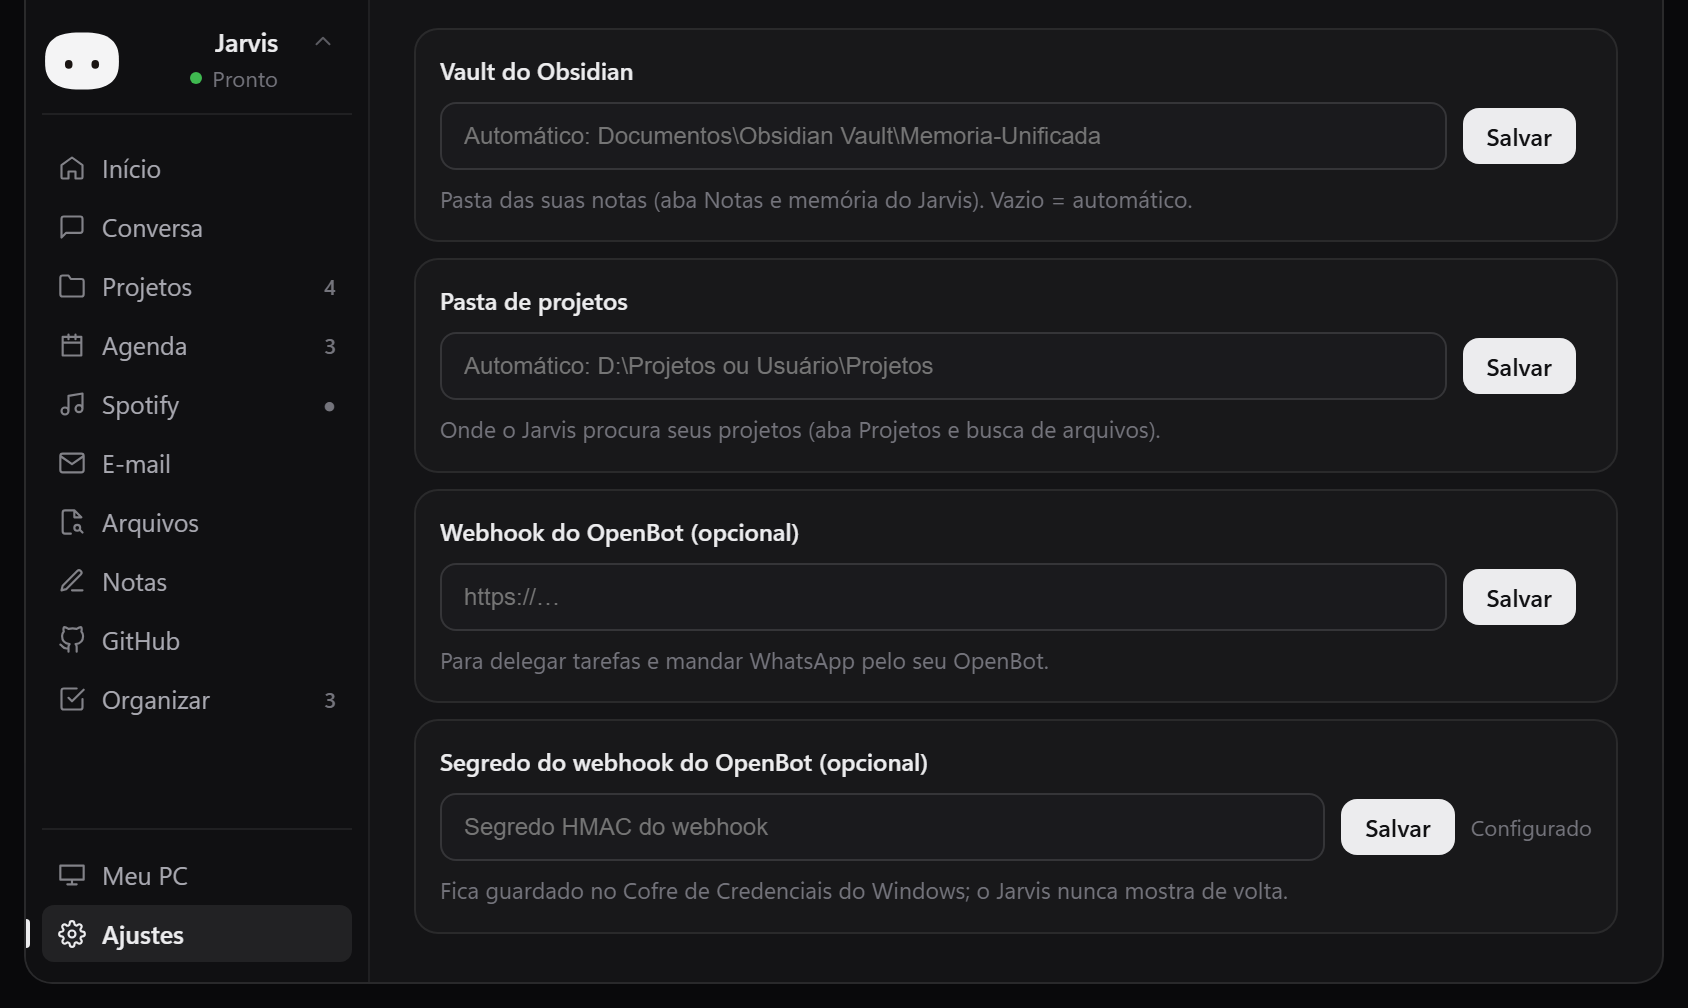
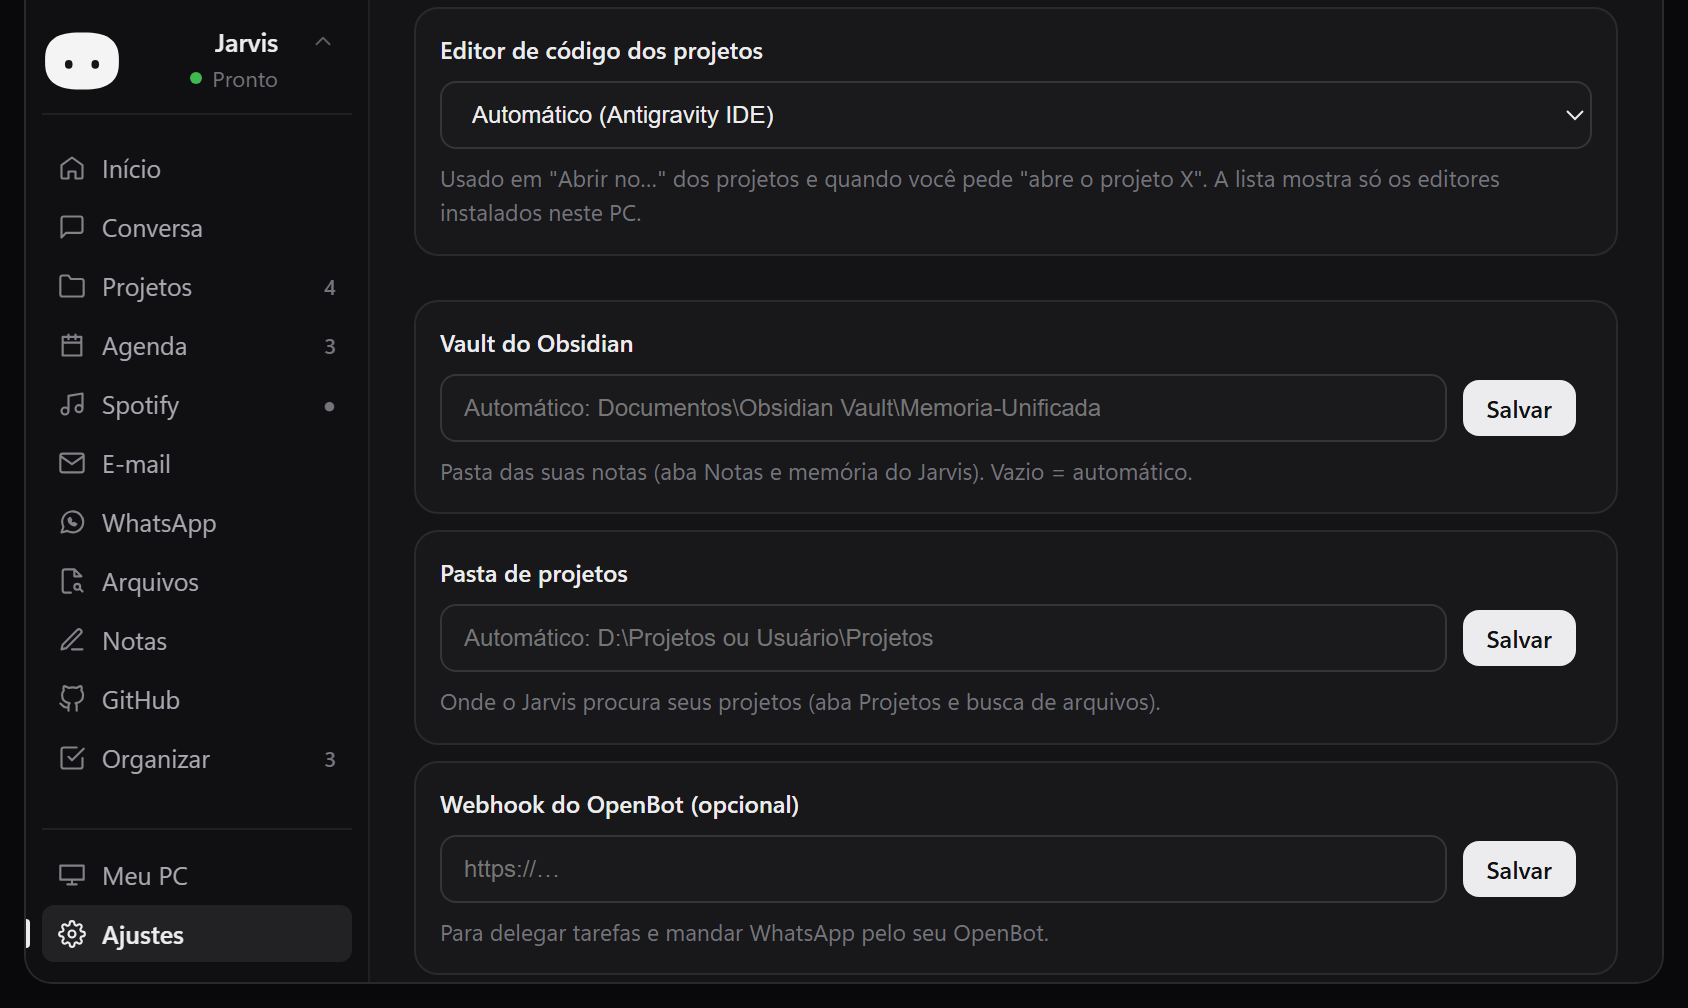
Editor de código dos projetos escolhido em Ajustes
- Detecta os editores instalados (Antigravity IDE, Antigravity, Cursor,
  Windsurf, VS Code/Insiders, Zed, Sublime Text, Visual Studio, JetBrains)
- Ajustes → Pastas e integrações → "Editor de código dos projetos":
  automático (primeiro encontrado) ou um dos instalados
- "Abrir no…", atalho de apps e "abre o projeto X" usam o escolhido
- README, notas da 0.1.5 e imagem de Pastas e integrações atualizados

diff --git a/src/jarvis/notch_app.ts b/src/jarvis/notch_app.ts
@@ -373,7 +373,7 @@ export async function startJarvisNotch(root: HTMLElement) {
   let queuedVoice: { text: string; screen: boolean } | null = null;
 
   /** The code editor projects open in (Antigravity when installed). */
-  let editorName = "Antigravity IDE";
+  let editorName = "editor";
   void Bridge.codeEditorName().then((n) => {
     if (n && n !== editorName) {
       editorName = n;
@@ -2373,6 +2373,47 @@ export async function startJarvisNotch(root: HTMLElement) {
     );
   }
 
+  /** The code editor projects open in, among the ones found on this PC. */
+  let editorsFound: { name: string; path: string }[] | null = null;
+  function renderEditorPicker(): HTMLElement {
+    const select = h("select", { class: "input", style: "width:100%;height:34px;color-scheme:dark" }) as HTMLSelectElement;
+    const status = h("span", { class: "tt-row-meta" });
+    const fill = (list: { name: string; path: string }[]) => {
+      select.replaceChildren();
+      const auto = list[0]?.name;
+      select.append(h("option", { value: "", text: auto ? `Automático (${auto})` : "Nenhum editor encontrado" }) as HTMLOptionElement);
+      for (const e of list) select.append(h("option", { value: e.path, text: e.name, title: e.path }) as HTMLOptionElement);
+      const saved = State.settings.jarvisCodeEditor ?? "";
+      // A saved editor that was uninstalled falls back to automatic.
+      select.value = list.some((e) => e.path.toLowerCase() === saved.toLowerCase()) ? list.find((e) => e.path.toLowerCase() === saved.toLowerCase())!.path : "";
+    };
+    if (editorsFound) fill(editorsFound);
+    else {
+      select.append(h("option", { value: "", text: "Procurando editores instalados…" }) as HTMLOptionElement);
+      void Bridge.listCodeEditors().then((list) => {
+        editorsFound = list ?? [];
+        fill(editorsFound);
+      });
+    }
+    select.addEventListener("change", async () => {
+      await saveSettings({ ...State.settings, jarvisCodeEditor: select.value });
+      editorName = (await Bridge.codeEditorName()) || editorName;
+      status.textContent = `Projetos abrem no ${editorName}`;
+    });
+    return h(
+      "div",
+      { class: "tt-card", style: "margin-bottom:8px" },
+      h("div", { class: "tt-card-title", text: "Editor de código dos projetos" }),
+      select,
+      h(
+        "div",
+        { class: "tt-volume", style: "margin-top:6px" },
+        h("span", { class: "tt-hint", style: "margin:0", text: "Usado em \"Abrir no…\" dos projetos e quando você pede \"abre o projeto X\". A lista mostra só os editores instalados neste PC." }),
+        status,
+      ),
+    );
+  }
+
   /** Obsidian, projects folder and the OpenBot webhook (empty = automatic). */
   function renderFolderSettings(): HTMLElement {
     type Field = "jarvisObsidianVault" | "jarvisProjectsDir" | "jarvisOpenbotWebhookUrl";
@@ -3193,6 +3234,7 @@ export async function startJarvisNotch(root: HTMLElement) {
       sectionHead("Microfone"),
       renderMicSettings(),
       sectionHead("Pastas e integrações"),
+      renderEditorPicker(),
       renderFolderSettings(),
       sectionHead("Sobre"),
       renderAboutUpdates(),

diff --git a/dev/notch-preview.ts b/dev/notch-preview.ts
@@ -99,6 +99,13 @@ const answers: Record<string, (args: any) => unknown> = {
     calEvents = calEvents.filter((e) => e.key !== key);
     return null;
   },
+  // Code editors found on the PC.
+  list_code_editors: () => [
+    { name: "Antigravity IDE", path: "C:\\Users\\voce\\AppData\\Local\\Programs\\Antigravity IDE\\Antigravity IDE.exe" },
+    { name: "VS Code", path: "C:\\Users\\voce\\AppData\\Local\\Programs\\Microsoft VS Code\\Code.exe" },
+    { name: "Cursor", path: "C:\\Users\\voce\\AppData\\Local\\Programs\\cursor\\Cursor.exe" },
+  ],
+  code_editor_name: () => "Antigravity IDE",
   // WhatsApp (fictional chats).
   whatsapp_state: () => ({ state: "ready", qr: null }),
   whatsapp_chats: () => [

diff --git a/src/core/state.ts b/src/core/state.ts
@@ -194,6 +194,8 @@ export interface Settings {
   jarvisMicName?: string;
   /** Words the transcription should know (names, games, apps), comma separated. */
   jarvisVoiceVocab?: string;
+  /** The program projects open in ("" = the first editor found). */
+  jarvisCodeEditor?: string;
   /** "local": the enrolled "Jarvis" spotted on the PC; "cloud": transcribed sentences. */
   jarvisWakeEngine?: "local" | "cloud";
   /** Local wake word: 0.35 (easier) – 0.7 (stricter). */
@@ -250,6 +252,7 @@ export const DEFAULT_SETTINGS: Settings = {
   jarvisMicSensitivity: "alta",
   jarvisMicName: "",
   jarvisVoiceVocab: "",
+  jarvisCodeEditor: "",
   jarvisWakeEngine: "local",
   jarvisWakeThreshold: 0.45,
 };

diff --git a/src/core/bridge.ts b/src/core/bridge.ts
@@ -72,6 +72,7 @@ export const Bridge = {
   /** A project in the code editor (Antigravity, else VS Code). */
   openProject: (path: string) => callOrThrow<string>("open_project", { path }),
   codeEditorName: () => call<string>("code_editor_name"),
+  listCodeEditors: () => call<{ name: string; path: string }[]>("list_code_editors"),
 
   /**
    * "Open terminal": the window the session runs in when Rust found it

diff --git a/src-tauri/src/jarvis_pc.rs b/src-tauri/src/jarvis_pc.rs
@@ -96,29 +96,95 @@ pub fn pick_shortcut(list: &[(String, std::path::PathBuf)], q: &str) -> Option<s
         .map(|(_, p)| p.clone())
 }
 
-/// The code editor projects open in: Antigravity IDE (the user's choice),
-/// then the newer Antigravity, else VS Code. Returns the program and its name.
-pub fn code_editor() -> Option<(std::path::PathBuf, &'static str)> {
-    let local = std::env::var_os("LOCALAPPDATA").map(std::path::PathBuf::from).unwrap_or_default();
-    let ide = local.join(r"Programs\Antigravity IDE\Antigravity IDE.exe");
-    if ide.is_file() {
-        return Some((ide, "Antigravity IDE"));
+/// A code editor found on the PC.
+#[derive(Debug, Clone, serde::Serialize)]
+#[serde(rename_all = "camelCase")]
+pub struct EditorInfo {
+    pub name: String,
+    /// The program; also what Ajustes saves as the choice.
+    pub path: String,
+}
+
+/// The code editors installed on this PC, in the order the automatic choice
+/// prefers them. Looks in the usual install folders and on PATH.
+pub fn installed_editors() -> Vec<EditorInfo> {
+    use std::path::PathBuf;
+    let env = |k: &str| std::env::var_os(k).map(PathBuf::from);
+    let local = env("LOCALAPPDATA").unwrap_or_default();
+    let pf = env("ProgramFiles").unwrap_or_else(|| PathBuf::from(r"C:\Program Files"));
+    let pf86 = env("ProgramFiles(x86)").unwrap_or_else(|| PathBuf::from(r"C:\Program Files (x86)"));
+
+    // (name, install paths, command on PATH)
+    let known: Vec<(&str, Vec<PathBuf>, &str)> = vec![
+        ("Antigravity IDE", vec![local.join(r"Programs\Antigravity IDE\Antigravity IDE.exe")], "antigravity-ide"),
+        ("Antigravity", vec![local.join(r"Programs\Antigravity\Antigravity.exe")], "antigravity"),
+        ("Cursor", vec![local.join(r"Programs\cursor\Cursor.exe"), pf.join(r"Cursor\Cursor.exe")], "cursor"),
+        ("Windsurf", vec![local.join(r"Programs\Windsurf\Windsurf.exe"), pf.join(r"Windsurf\Windsurf.exe")], "windsurf"),
+        ("VS Code", vec![local.join(r"Programs\Microsoft VS Code\Code.exe"), pf.join(r"Microsoft VS Code\Code.exe")], "code"),
+        (
+            "VS Code Insiders",
+            vec![local.join(r"Programs\Microsoft VS Code Insiders\Code - Insiders.exe"), pf.join(r"Microsoft VS Code Insiders\Code - Insiders.exe")],
+            "code-insiders",
+        ),
+        ("Zed", vec![local.join(r"Programs\Zed\Zed.exe"), pf.join(r"Zed\Zed.exe")], "zed"),
+        ("Sublime Text", vec![pf.join(r"Sublime Text\sublime_text.exe"), pf.join(r"Sublime Text 3\sublime_text.exe")], "subl"),
+    ];
+    let mut out: Vec<EditorInfo> = Vec::new();
+    let push = |name: String, exe: PathBuf, out: &mut Vec<EditorInfo>| {
+        let path = exe.to_string_lossy().to_string();
+        if !out.iter().any(|e| e.path.eq_ignore_ascii_case(&path) || e.name == name) {
+            out.push(EditorInfo { name, path });
+        }
+    };
+    for (name, paths, cmd) in known {
+        if let Some(exe) = paths.into_iter().find(|p| p.is_file()).or_else(|| crate::platform::find_on_path(cmd)) {
+            push(name.to_string(), exe, &mut out);
+        }
     }
-    if let Some(exe) = crate::platform::find_on_path("antigravity-ide") {
-        return Some((exe, "Antigravity IDE"));
+
+    // Visual Studio: <Program Files>\Microsoft Visual Studio\<versão>\<edição>\Common7\IDE\devenv.exe
+    for root in [pf.join("Microsoft Visual Studio"), pf86.join("Microsoft Visual Studio")] {
+        for version in std::fs::read_dir(&root).into_iter().flatten().flatten() {
+            for edition in std::fs::read_dir(version.path()).into_iter().flatten().flatten() {
+                let exe = edition.path().join(r"Common7\IDE\devenv.exe");
+                if exe.is_file() {
+                    let name = format!("Visual Studio {} {}", version.file_name().to_string_lossy(), edition.file_name().to_string_lossy());
+                    push(name, exe, &mut out);
+                }
+            }
+        }
     }
-    let newer = local.join(r"Programs\Antigravity\Antigravity.exe");
-    if newer.is_file() {
-        return Some((newer, "Antigravity"));
+
+    // JetBrains (IntelliJ, WebStorm, PyCharm, Rider…): <dir>\bin\<ide>64.exe,
+    // installed directly or by the Toolbox.
+    let mut jet_dirs: Vec<PathBuf> = std::fs::read_dir(pf.join("JetBrains")).into_iter().flatten().flatten().map(|d| d.path()).collect();
+    for app in std::fs::read_dir(local.join(r"Programs")).into_iter().flatten().flatten() {
+        if app.path().join("bin").is_dir() && app.path().join("product-info.json").is_file() {
+            jet_dirs.push(app.path());
+        }
     }
-    if let Some(exe) = crate::platform::find_on_path("antigravity") {
-        return Some((exe, "Antigravity"));
+    for dir in jet_dirs {
+        let Some(exe) = std::fs::read_dir(dir.join("bin")).into_iter().flatten().flatten().map(|f| f.path()).find(|p| {
+            let n = p.file_name().map(|n| n.to_string_lossy().to_lowercase()).unwrap_or_default();
+            n.ends_with("64.exe") && !n.starts_with("fsnotifier") && !n.starts_with("elevator") && !n.starts_with("restarter")
+        }) else {
+            continue;
+        };
+        push(dir.file_name().map(|n| n.to_string_lossy().to_string()).unwrap_or_else(|| "JetBrains".into()), exe, &mut out);
     }
-    let vscode = local.join(r"Programs\Microsoft VS Code\Code.exe");
-    if vscode.is_file() {
-        return Some((vscode, "VS Code"));
-    }
-    crate::platform::find_on_path("code").map(|exe| (exe, "VS Code"))
+    out
+}
+
+/// The editor projects open in: the one chosen in Ajustes (if it is still
+/// installed), else the first one found. Returns the program and its name.
+pub fn code_editor() -> Option<(std::path::PathBuf, String)> {
+    let chosen = crate::settings::load().jarvis_code_editor;
+    let all = installed_editors();
+    let pick = all
+        .iter()
+        .find(|e| !chosen.is_empty() && e.path.eq_ignore_ascii_case(&chosen))
+        .or_else(|| all.first())?;
+    Some((std::path::PathBuf::from(&pick.path), pick.name.clone()))
 }
 
 /// Opens a project folder in the code editor. The path goes as its own
@@ -128,7 +194,7 @@ pub fn open_in_editor(path: &str) -> Result<String, String> {
     if !(dir.is_absolute() && dir.exists()) {
         return Err(format!("Pasta não encontrada: {path}"));
     }
-    let (exe, name) = code_editor().ok_or("Não encontrei o Antigravity nem o VS Code instalados.")?;
+    let (exe, name) = code_editor().ok_or("Não encontrei nenhum editor de código instalado (Antigravity, VS Code, Cursor…).")?;
     let mut cmd = Command::new(&exe);
     cmd.arg(path);
     #[cfg(windows)]
@@ -1038,5 +1104,17 @@ mod tests {
         assert_eq!(pick("FiveM").as_deref(), Some("fivem.lnk"));
         assert_eq!(pick("visual studio").as_deref(), Some("visual studio code.lnk"));
         assert_eq!(pick("xyz"), None);
+    }
+}
+
+#[cfg(test)]
+mod editor_probe {
+    /// What this PC has (`cargo test editors_on_this_pc -- --ignored --nocapture`).
+    #[test]
+    #[ignore]
+    fn editors_on_this_pc() {
+        for e in super::installed_editors() {
+            println!("{} -> {}", e.name, e.path);
+        }
     }
 }

diff --git a/src-tauri/src/settings.rs b/src-tauri/src/settings.rs
@@ -124,6 +124,8 @@ pub struct Settings {
     pub jarvis_wake_threshold: f32,
     /// Words the transcription should know (names, games, apps), comma separated.
     pub jarvis_voice_vocab: String,
+    /// The program projects open in ("" = the first editor found).
+    pub jarvis_code_editor: String,
 }
 
 #[derive(Debug, Clone, Default, PartialEq, Serialize, Deserialize)]
@@ -206,6 +208,7 @@ impl Default for Settings {
             jarvis_wake_engine: "local".into(),
             jarvis_wake_threshold: 0.5,
             jarvis_voice_vocab: String::new(),
+            jarvis_code_editor: String::new(),
         }
     }
 }
@@ -509,7 +512,8 @@ mod tests {
   "jarvisMicName": "Microfone (3- M8)",
   "jarvisWakeEngine": "cloud",
   "jarvisWakeThreshold": 0.625,
-  "jarvisVoiceVocab": "FC 26, Daniel"
+  "jarvisVoiceVocab": "FC 26, Daniel",
+  "jarvisCodeEditor": "C:\\Editor\\editor.exe"
 }"##;
 
     fn custom() -> Value {
@@ -940,6 +944,7 @@ mod tests {
                 "jarvisWakeEngine",
                 "jarvisWakeThreshold",
                 "jarvisVoiceVocab",
+                "jarvisCodeEditor",
             ]
         );
         let _ = std::fs::remove_dir_all(&dir);

diff --git a/src-tauri/src/lib.rs b/src-tauri/src/lib.rs
@@ -236,10 +236,16 @@ fn open_project(path: String) -> Result<String, String> {
     jarvis_pc::open_in_editor(&path)
 }
 
-/// The editor projects open in ("Antigravity" / "VS Code"), for the button label.
+/// The editor projects open in ("Antigravity IDE", "VS Code"…), for the button label.
 #[tauri::command]
 fn code_editor_name() -> String {
-    jarvis_pc::code_editor().map(|(_, n)| n.to_string()).unwrap_or_else(|| "VS Code".into())
+    jarvis_pc::code_editor().map(|(_, n)| n).unwrap_or_else(|| "editor".into())
+}
+
+/// The code editors installed on this PC, for the choice in Ajustes.
+#[tauri::command]
+fn list_code_editors() -> Vec<jarvis_pc::EditorInfo> {
+    jarvis_pc::installed_editors()
 }
 
 /// "Open terminal" opens the working folder in VS Code when `code` is on PATH,
@@ -919,6 +925,7 @@ pub fn run() {
             jarvis_tools::jarvis_github_overview,
             open_project,
             code_editor_name,
+            list_code_editors,
             whatsapp::whatsapp_state,
             whatsapp::whatsapp_chats,
             whatsapp::whatsapp_thread,

diff --git a/scripts/readme_shots.py b/scripts/readme_shots.py
@@ -116,7 +116,7 @@ def main() -> None:
         ("settings-ai", "open=settings&scroll=Trocar de IA automaticamente"),
         ("settings-notch", "open=settings&sub=Notch&scroll=Informações no notch"),
         ("settings-voice", "open=settings&enrolled=1&scroll=Reconhecimento da sua voz"),
-        ("settings-folders", "open=settings&scroll=end"),
+        ("settings-folders", "open=settings&scroll=Editor de código dos projetos"),
     ]
     imgs = {n: raw(q, 3800) for n, q in tabs}
     box = content_box(imgs["panel-home"], 24)

diff --git a/README.md b/README.md
@@ -213,6 +213,9 @@ Pode falar no seu ritmo: uma pausa para respirar (até ~2 s) não encerra o pedi
 |---|---|---|
 | Vault do Obsidian | Aba **Notas** e memória do Jarvis | `Documentos\Obsidian Vault\Memoria-Unificada` |
 | Pasta de projetos | Aba **Projetos** e busca de arquivos | `D:\Projetos` se existir, senão `Usuário\Projetos` |
+| Editor de código dos projetos | Onde **“Abrir no…”** e o pedido *“abre o projeto X”* abrem a pasta | O primeiro editor encontrado |
+
+**Editor de código:** o Jarvis procura os editores instalados no PC e mostra só eles na lista — Antigravity IDE, Antigravity, Cursor, Windsurf, VS Code (e Insiders), Zed, Sublime Text, Visual Studio e os da JetBrains (IntelliJ, WebStorm, PyCharm, Rider…). Escolha um e os projetos passam a abrir nele; se ele for desinstalado, volta para o automático.
 
 ### 4. Google Agenda e Gmail
 
@@ -328,7 +331,7 @@ Diga **“Jarvis”** e o pedido, clique no notch e digite, ou use **Ctrl+Alt+Es
 | “O que tenho amanhã?” / “marca dentista sexta às 10h e me avisa 1 hora antes” | Agenda com notificação |
 | “Tenho e-mail novo?” / “resume o e-mail da Ana” / “responde dizendo que confirmo” | Gmail (rascunho; envio só com Permitir) |
 | “Acha o PDF do contrato de março” | Busca nos seus arquivos e abre |
-| “Abre o projeto aluga” | Abre a pasta do projeto no **Antigravity IDE** (ou no VS Code, se não tiver) |
+| “Abre o projeto aluga” | Abre a pasta do projeto no **editor que você escolheu** em Ajustes |
 | “Anota no projeto jarvis que preciso revisar o login” | Escreve no Obsidian |
 | “Abre o YouTube e procura lo-fi” | Navegador do Jarvis abre, busca e clica |
 | “O que tem na minha tela?” | Lê a tela e explica |
@@ -390,6 +393,7 @@ Exemplo — **Modo jogo**: gatilho `app:valorant`, passos `close:chrome, saida:f
 | WhatsApp: o QR code não aparece | Espere alguns segundos com a aba aberta (ele carrega o WhatsApp Web escondido). Se demorar, feche e abra o Jarvis. |
 | WhatsApp pede o QR code de novo | Acontece ao reinstalar ou se o aparelho foi removido no celular. Escaneie de novo e apague os aparelhos antigos em *Aparelhos conectados*. |
 | WhatsApp: “não achei o contato” | Diga o nome como está salvo no celular (ou o número com DDD). Ele mostra os nomes parecidos que encontrou. |
+| “Abrir no…” abre o editor errado / meu editor não aparece | Ajustes → IA & Voz → **Pastas e integrações** → *Editor de código dos projetos*. Se o seu não está na lista, instale-o no local padrão ou deixe o comando dele no PATH e reabra o Jarvis. |
 | Sem temperatura nos círculos | Abra o LibreHardwareMonitor. |
 | Notch some em um jogo | Use *Janela sem bordas* no jogo, ou deixe ligado *Jogo em tela cheia → outro monitor*. |
 

diff --git a/docs/releases/v0.1.5.md b/docs/releases/v0.1.5.md
@@ -1,6 +1,6 @@
 # Jarvis 0.1.5
 
-**Navegação muito mais fluida e projetos abrindo no Antigravity IDE.**
+**Navegação muito mais fluida e projetos abrindo no editor que você escolher.**
 
 ## Melhorias
 
@@ -11,7 +11,8 @@
 
 ## Novidades
 
-- 🚀 **Projetos no Antigravity IDE**: o botão "Abrir no…" dos projetos, o atalho de apps e o pedido por voz ("abre o projeto aluga") usam o **Antigravity IDE**. Sem ele instalado, o Jarvis usa o Antigravity ou o VS Code.
+- 🧰 **Escolha o editor dos projetos** (Ajustes → IA & Voz → Pastas e integrações): o Jarvis encontra os editores instalados no PC — Antigravity IDE, Antigravity, Cursor, Windsurf, VS Code, Zed, Sublime Text, Visual Studio, JetBrains… — e você escolhe onde os projetos abrem.
+- 🚀 O botão **"Abrir no…"** dos projetos, o atalho de apps e o pedido por voz ("abre o projeto aluga") usam o editor escolhido (no automático, o primeiro encontrado).
 
 ## Instalar
 
